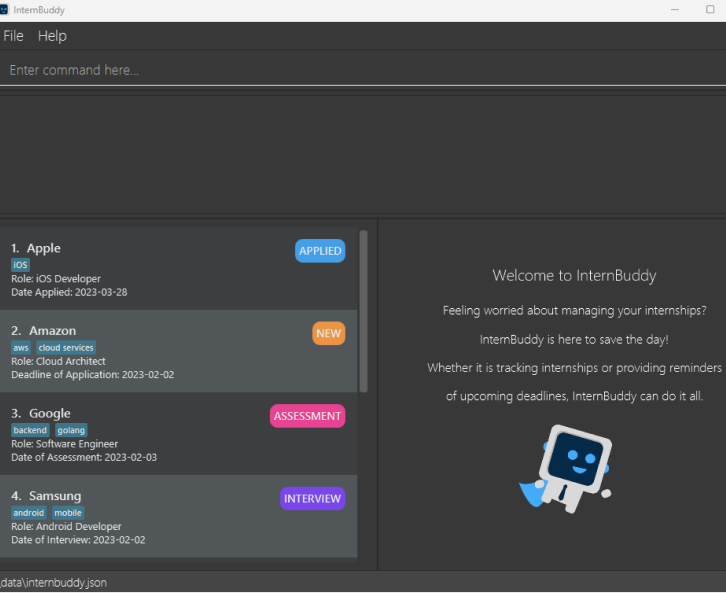
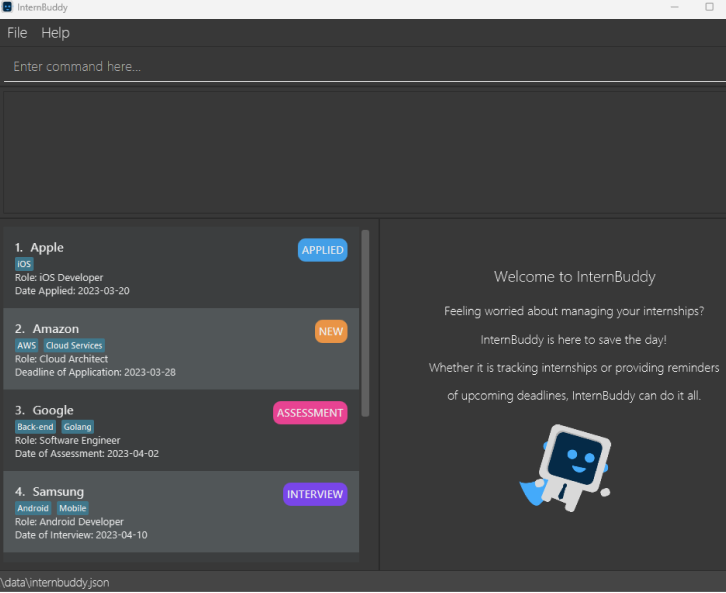
Update sample data and UI

diff --git a/src/main/java/seedu/address/model/util/SampleDataUtil.java b/src/main/java/seedu/address/model/util/SampleDataUtil.java
@@ -21,25 +21,25 @@ public class SampleDataUtil {
     public static Internship[] getSampleInternships() {
         return new Internship[] {
             new Internship(new CompanyName("Apple"), new Role("iOS Developer"), new Status("applied"),
-                new Date("2023-02-01"), new Comment("Yay! My dream company!"), getTagSet("iOS")),
+                new Date("2023-03-20"), new Comment("Yay! My dream company!"), getTagSet("iOS")),
             new Internship(new CompanyName("Amazon"), new Role("Cloud Architect"), new Status("new"),
-                new Date("2023-02-02"), new Comment("Need to research more on cloud services."),
-                    getTagSet("aws", "cloud services")),
+                new Date("2023-03-28"), new Comment("Need to research more on cloud services."),
+                    getTagSet("AWS", "Cloud Services")),
             new Internship(new CompanyName("Google"), new Role("Software Engineer"), new Status("assessment"),
-                new Date("2023-02-03"), new Comment("Good company culture and environment."),
-                    getTagSet("golang", "backend")),
+                new Date("2023-04-02"), new Comment("Good company culture and environment."),
+                    getTagSet("Golang", "Back-end")),
             new Internship(new CompanyName("Samsung"), new Role("Android Developer"), new Status("interview"),
-                new Date("2023-02-02"), new Comment("To compare with Apple's offer again."),
-                    getTagSet("android", "mobile")),
+                new Date("2023-04-10"), new Comment("To compare with Apple's offer again."),
+                    getTagSet("Android", "Mobile")),
             new Internship(new CompanyName("Grab"), new Role("Frontend Designer"), new Status("offered"),
-                new Date("2023-02-02"), new Comment("Good benefits. Can consider."),
-                    getTagSet("react", "css")),
-            new Internship(new CompanyName("Paypal"), new Role("Product Manager"), new Status("Accepted"),
-                new Date("2023-04-05"), new Comment("Starting work on 1 May. Excited!"),
+                new Date("2023-03-27"), new Comment("Good benefits. Can consider."),
+                    getTagSet("React", "CSS")),
+            new Internship(new CompanyName("Paypal"), new Role("Product Designer"), new Status("Accepted"),
+                new Date("2023-03-26"), new Comment("Starting work on 1 May. Excited!"),
                     getTagSet("UI", "UX")),
             new Internship(new CompanyName("Facebook"), new Role("Backend Developer"), new Status("rejected"),
-                new Date("2023-02-02"), new Comment("Rejected since I lack proficiency in SQL."),
-                    getTagSet("sql")),
+                new Date("2023-03-15"), new Comment("Rejected since I lack proficiency in SQL."),
+                    getTagSet("SQL")),
         };
     }
 
